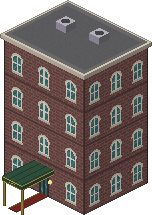
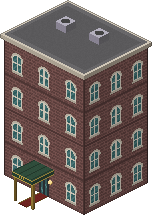
Use the brick walk-up with the entrance canopy downtown
brick-4 was in no pick list. It joins the downtown street-front swaps,
with a shorter canopy (0.34 tiles) set back so it ends at the lot's street
edge. Swaps now skip any spot that would cover another building's
entrance strip.

Changed region(s): [[0.0, 0.7814, 0.2368, 1.0]]

diff --git a/js/city.js b/js/city.js
@@ -92,7 +92,8 @@
   const HOUSES = [1, 2, 3, 4, 5, 6].map(n => `houses/house-${n}.png`);
   const PLAZA_BUILDINGS = ['buildings/shop-6.png', 'buildings/shop-7.png', 'buildings/fastfood.png',
     'buildings/apartment-1.png', 'buildings/apartment-2.png'];
-  const DOWNTOWN_ART = ['buildings/shop-7.png', 'buildings/brick-3.png', 'buildings/office-8.png'];
+  const DOWNTOWN_ART = ['buildings/shop-7.png', 'buildings/brick-3.png', 'buildings/brick-4.png', 'buildings/office-8.png'];
+  const CANOPY = 0.38;                             // brick-4's entrance canopy, out from its front
   const HELIPAD_ODDS = 0.2;                        // glass offices with the helipad roof (office-5)
   const TREES = ['oak', 'oak-small', 'maple', 'birch', 'olive', 'pine', 'pine-small'].map(n => `nature/trees/${n}.png`);
   const CITY_TREES = ['oak', 'oak-small', 'maple', 'birch'].map(n => `nature/trees/${n}.png`);
@@ -555,16 +556,29 @@
     while (plan.length < downtownFree.length) plan.push('row');
     shuffle(plan);
     downtownFree.forEach((c, k) => T[plan[k]](roadAt(c.i) + 1, roadAt(c.j) + 1));
+    const DOOR = 0.4;                               // clear strip in front of every entrance
+    const footprint = lot => {
+      if (lot[0].startsWith('art:')) return [lot[1], lot[2], lot[3], lot[4]];
+      const b = BUILDINGS[lot[0]], cu = (lot[1] + lot[2]) / 2, cv = (lot[3] + lot[4]) / 2;
+      return [cu - b.a / 2, cu + b.a / 2, cv - b.b / 2, cv + b.b / 2];
+    };
+    const coversDoor = (r, self) => lots.some(o => {  // does rect r cover another building's entrance?
+      if (o === self) return false;
+      const f = footprint(o), cu = (f[0] + f[1]) / 2, w = Math.min(f[1] - f[0], 0.9);
+      return r[0] < cu + w / 2 && r[1] > cu - w / 2 && r[2] < f[3] + DOOR && r[3] > f[3];
+    });
     for (const lot of lots) {                       // swap some bare lots for new buildings
       const onStreet = Math.abs((lot[4] - ROAD0) % PITCH) < 0.01;      // front edge on the block's +v road
       if (onStreet && BARE.includes(lot[0]) && lot[2] - lot[1] >= 1.5 && lot[4] - lot[3] >= 1.25 && rng() < 0.35) {
         let name = pick(DOWNTOWN_ART);
         if (name === 'buildings/office-8.png' && rng() < HELIPAD_ODDS) name = 'buildings/office-5.png';
-        const [a, b] = fp(name);
-        if (a <= lot[2] - lot[1] + 0.05 && b <= lot[4] - lot[3] + 0.05) {
-          // At the street edge of its lot, leaving the back row's entrances clear.
-          const cu = (lot[1] + lot[2]) / 2, front = lot[4] - 0.08;
-          lot.splice(0, 5, 'art:' + name, cu - a / 2, cu + a / 2, front - b, front);
+        const [a, b] = fp(name), out = name === 'buildings/brick-4.png' ? CANOPY : 0;
+        if (a <= lot[2] - lot[1] + 0.05 && b + out <= lot[4] - lot[3] + 0.05) {
+          // At the street edge of its lot (canopy included), leaving the back
+          // row's entrances clear.
+          const cu = (lot[1] + lot[2]) / 2, front = lot[4] - 0.08 - out;
+          const r = [cu - a / 2, cu + a / 2, front - b, front];
+          if (!coversDoor(r, lot)) lot.splice(0, 5, 'art:' + name, ...r);
         }
       }
     }
@@ -676,16 +690,10 @@
     // DOOR-deep strip in front of it, and (new sprites) any part drawn
     // outside the footprint, free of props; count buildings that
     // intrude on another's entrance (tools/sim.js fails on any).
-    const DOOR = 0.4;
     const EXTRA = {                                  // sprite ground beyond the footprint: [-u, +u, -v, +v]
-      'buildings/brick-4.png': [0, 0, 0, 0.55], 'houses/diner.png': [0, 0.18, 0, 0],
+      'buildings/brick-4.png': [0, 0, 0, CANOPY], 'houses/diner.png': [0, 0.18, 0, 0],
       'buildings/fastfood.png': [0, 0.34, 0, 0], 'buildings/apartment-2.png': [0, 0.22, 0, 0.3],
       'civic/church.png': [0.04, 0.04, 0, 0.36], 'civic/bank.png': [0, 0, 0, 0.36],
-    };
-    const footprint = lot => {
-      if (lot[0].startsWith('art:')) return [lot[1], lot[2], lot[3], lot[4]];
-      const b = BUILDINGS[lot[0]], cu = (lot[1] + lot[2]) / 2, cv = (lot[3] + lot[4]) / 2;
-      return [cu - b.a / 2, cu + b.a / 2, cv - b.b / 2, cv + b.b / 2];
     };
     const keepouts = [], doors = [];
     for (const lot of lots) {

diff --git a/tools/art.py b/tools/art.py
@@ -935,7 +935,7 @@ def market(s, x0, y0, a, b, door, rng):
     awning_u(s, x0 + a, y0, b, 22, green, depth=0.22)
 
 
-def entrance_canopy(s, cx, y, width=0.32, depth=0.5, z=25):
+def entrance_canopy(s, cx, y, width=0.32, depth=0.34, z=25):
     """New York–style entrance: a flat fabric canopy from the door out to the
     curb on brass poles, gold-trimmed valance with a building number, a red
     carpet underneath and lamps beside the door."""
